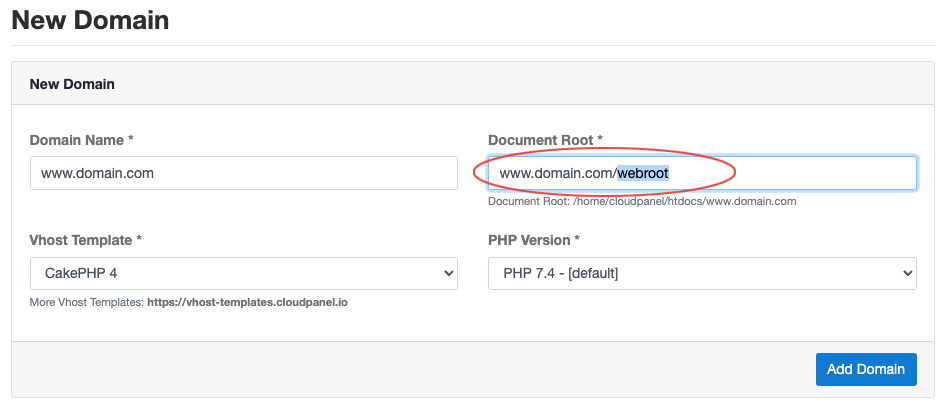
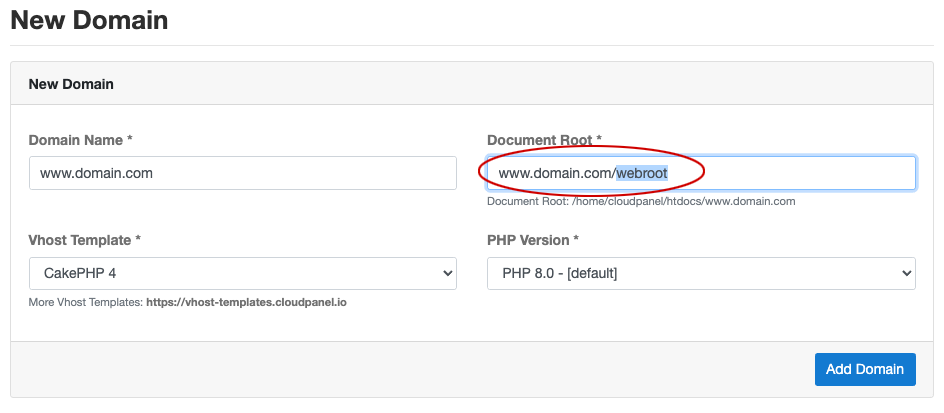
.

diff --git a/cloudpanel-ce/sidebars.js b/cloudpanel-ce/sidebars.js
@@ -308,5 +308,18 @@ module.exports = {
         },
       ],
     },
+    {
+      type: 'category',
+      label: 'Tools',
+      items: [
+        {
+          type: 'category',
+          label: 'WordPress',
+          items: [
+            'tools/wordpress/clp-email-sender-from',
+          ],
+        },
+      ],
+    },
   ]
 };

diff --git a/cloudpanel-ce/docs/tools/wordpress/clp-email-sender-from.md b/cloudpanel-ce/docs/tools/wordpress/clp-email-sender-from.md
@@ -1,0 +1,40 @@
+---
+id: clp-email-sender-from
+title: CLP E-Mail Sender From
+sidebar_label: CLP E-Mail Sender From
+---
+
+import useBaseUrl from '@docusaurus/useBaseUrl';
+import Tabs from '@theme/Tabs';
+import TabItem from '@theme/TabItem';
+
+
+[CLP E-Mail Sender From](https://github.com/cloudpanel-io/clp-email-sender-from) is a **WordPress plugin** to change the **E-Mail** from **Name** and **Address**.
+
+Services like [Amazon SES](https://aws.amazon.com/ses/) require to send **E-Mails** from verified **Domains**.
+
+You may be interested in: [How to configure Amazon SES with Postfix](https://www.cloudpanel.io/tutorial/how-to-configure-amazon-ses-with-postfix/)
+
+## Installation
+
+1. Clone the **CLP E-Mail Sender From** Git Repository:
+
+```
+git clone https://github.com/cloudpanel-io/clp-email-sender-from
+```
+
+2. Copy the file **clp-email-sender-from.php** to the directory **wp-content/plugins/**.
+
+3. Active the **plugin** in your **Wordpress Admin**:
+
+<img class="border" alt="CLP E-Mail Sender From Wordpress Plugin" src={useBaseUrl('/img/tools/wordpress/clp-email-sender-from/activate_plugin.png')} />
+
+4. Go to **Settings** -> **General** and set **From Name** and **From E-Mail** and click on the button **Saves Changes**.
+
+<img class="border" alt="CLP E-Mail Sender From Settings" src={useBaseUrl('/img/tools/wordpress/clp-email-sender-from/email_sender_from_settings.png')} />
+
+## Changelog
+
+v1.0.0 - [2021-01-05]
+
+- Initial Version

diff --git a/cloudpanel-ce/docs/applications/cakephp-4.md b/cloudpanel-ce/docs/applications/cakephp-4.md
@@ -40,20 +40,26 @@ cd /home/cloudpanel/htdocs/
 rm -rf /home/cloudpanel/htdocs/www.domain.com
 ```
 
-3. Install via **composer**:
+3. Update **composer** to latest version. Execute the following command as **root** user:
 
 ```
-php7.4 /usr/local/bin/composer create-project --prefer-dist cakephp/app:~4.1 www.domain.com
+php7.4 /usr/local/bin/composer self-update
 ```
 
-4. Reset permissions.
+4. Install via **composer**:
+
+```
+php8.0 /usr/local/bin/composer create-project --prefer-dist cakephp/app:~4.2 www.domain.com
+```
+
+5. Reset permissions.
 
 ```
 cd /home/cloudpanel/htdocs/
 clpctl system:permissions:reset www.domain.com 775
 ```
 
-5. Done! You can now open your domain in your browser to see the **Welcome to CakePHP 4** page.
+6. Done! You can now open your domain in your browser to see the **Welcome to CakePHP 4** page.
 
 <img class="border" src={useBaseUrl('img/v1/applications/cakephp-4/welcome.png')} />
 
